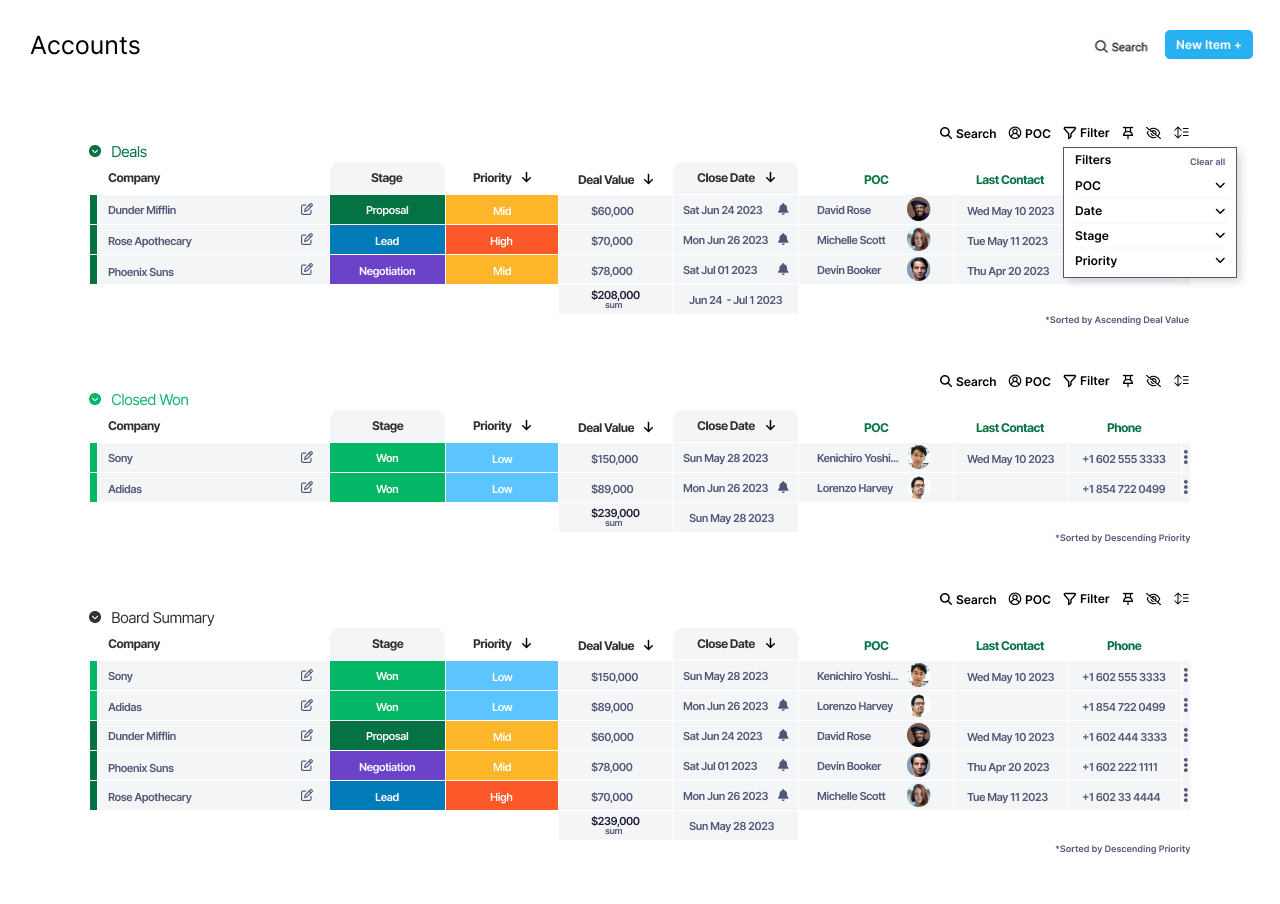
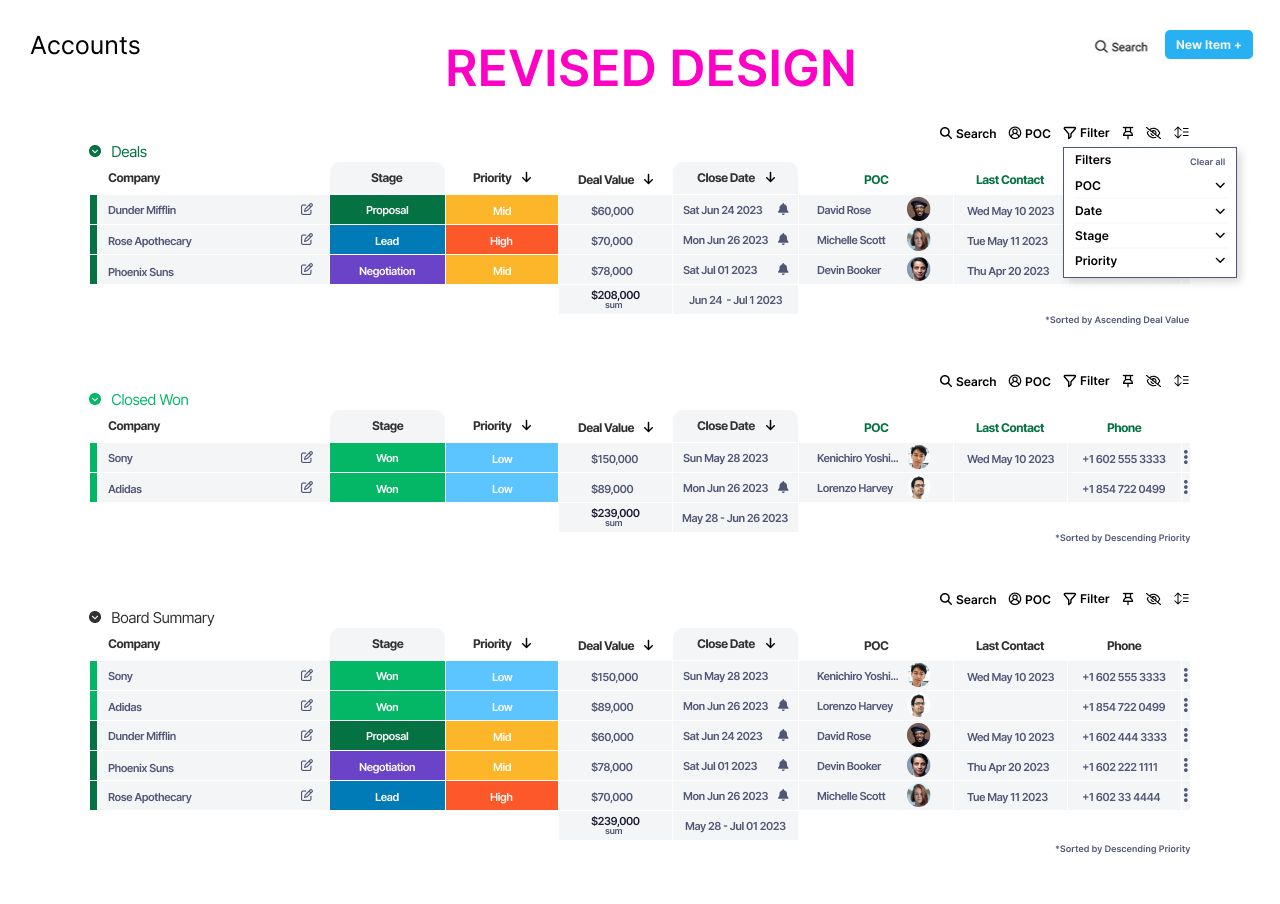
fixed border color for each company name

diff --git a/dist/style.css b/dist/style.css
@@ -1,2 +1,2 @@
-html{box-sizing:border-box;font-size:100%}*,:after,:before{box-sizing:inherit}body{margin:0;padding:0;font-family:Segoe UI,Inter,sans-serif}section{padding:2em 2em 0}li,ul{padding:0}td,th{margin:1em;padding:.5em}th{border-radius:10px 10px 0 0}.tab-date{display:flex;justify-content:space-between}.tab-width-sm{min-width:8rem}.tab-width-med{min-width:13rem}.icon{margin-left:.75rem}.new-btn{background-color:#27b1f3;width:8rem;padding:.5rem;border-radius:4px;display:flex;justify-content:space-evenly;margin:auto}h1,h2,h3,h4,h5,h6,th{line-height:1.1;font-weight:0}h1,h2,h3,h4,h5,h6,p,th{margin-top:0;-webkit-margin-before:0;margin-block-start:0;-webkit-margin-after:0;margin-block-end:0}p{font-weight:500}.text-left{text-align:start}.text-center{text-align:center}.text-right{text-align:end}.light{font-weight:400}.regular{font-weight:600}.bold{font-weight:700}a,a:active,a:visited{text-decoration:none}:root{--dark-grey-color:#303133;--mid-grey-color:#505676;---mid-light-grey-color:#bdbec2;--light-grey-color:#f4f5f7;--white-color:#fff;--dark-green-color:#047243;--mid-blue-color:#007bb7;--purple-color:#6b43c8;--light-green-color:#04b767;--red-color:#fd582a;--light-blue-color:#5cc5ff}table{color:var(--mid-grey-color);border-color:var(--white-color)}th{color:var(--dark-grey-color)}.white-text{color:var(--white-color)}.tab-color{background-color:var(--light-grey-color)}.deals-table__content-deal-tab,.deals-table__content-title{color:var(--dark-green-color)}.closed-table__content-deal-tab,.closed-table__content-title{color:var(--light-green-color)}a,a:active,a:visited{color:var(--dark-grey-color)}a:hover{color:var(--mid-grey-color)}.nav-menu{display:flex;justify-content:space-between;align-items:center;padding:5em 5em 0}.nav-menu__item{list-style-type:none;display:flex}.nav-menu__links{align-items:center;display:flex;padding:0 2rem}.nav-menu__hamburger{position:absolute;top:3.4em;right:2em;display:none;flex-direction:column;justify-content:space-between;width:30px;height:21px}@media (max-width:414px){.nav-menu{flex-direction:column;align-items:flex-start;padding:2em 2em 0;display:block!important}.nav-menu__header{padding:3em 2em 0}.nav-menu__item{display:none}.nav-menu__hamburger{display:flex;padding:1.6em 2em 0}.nav-menu__links{text-align:center;width:100%;display:inline-block;flex-direction:column;padding:1em 2em}}.deals-table{padding:2em 5em 0;overflow:auto}.deals-table__menu{display:flex;justify-content:end;align-items:center;padding:5em 5em 0}.deals-table__menu-item{list-style-type:none;display:inline-block;cursor:pointer}.deals-table__menu-links{padding:0 1em;display:block}.deals-table__menu-item-filter{display:none;border:none!important}.deals-table__menu-item-filter-links{position:absolute;margin-top:1em;padding:0 1em;width:12em;background-color:#fff;border:1px solid;display:block}.deals-table__menu-item-filter-text{display:flex;justify-content:space-between;padding:.5em 0}.deals-table__menu-mobile{display:none}.deals-table__content{width:100%}.deals-table__content-title{padding-bottom:1em}.deals-table__content-company{width:10em;color:var(--mid-grey-color)}.deals-table__content-company-name{border-color:var(--dark-green-color);border-left-style:solid;border-width:.8em}.deals-table__content-user-image{width:40px;height:auto;clip-path:circle(30%);-webkit-clip-path:circle(40%)}.deals-table__content-total{background-color:var(--light-grey-color)}@media (max-width:414px){.deals-table__menu{display:none}.deals-table__menu-mobile{display:flex;align-items:center;padding:5em 3em 1em;justify-content:center}.deals-table__menu-item{width:50px}.deals-table__content{overflow:auto}.deals-table__content-user-image{width:100%;height:auto}}.closed-table{padding:2em 5em 0;overflow:auto}.closed-table__menu{display:flex;justify-content:end;align-items:center;padding:5em 5em 0}.closed-table__menu-item{list-style-type:none;display:inline-block}.closed-table__menu-links{padding:0 1em;display:block}.closed-table__menu-mobile{display:none;padding:2em 2em 0}.closed-table__content{width:100%}.closed-table__content-title{padding-bottom:1em}.closed-table__content-company{width:10em;color:#505676}.closed-table__content-company-name{border-color:var(--light-green-color);border-left-style:solid;border-width:.8em}.closed-table__content-priorityText{color:#fff}.closed-table__content-stageText{color:#fff;text-align:center}.closed-table__content-stageTab{background-color:#f4f5f7}.closed-table__content-user-image{width:40px;height:auto;clip-path:circle(30%);-webkit-clip-path:circle(40%)}.closed-table__content-total{background-color:var(--light-grey-color)}@media (max-width:414px){.closed-table__menu{display:none}.closed-table__menu-mobile{display:flex;align-items:center;padding:5em 3em 1em;justify-content:center}.closed-table__menu-item{width:50px}.closed-table__content{overflow:auto}.closed-table__content-user-image{width:100%;height:auto}}.board-table{padding:2em 5em 0;overflow:auto}.board-table__menu{display:flex;justify-content:end;align-items:center;padding:5em 5em 0}.board-table__menu-item{list-style-type:none;display:inline-block}.board-table__menu-links{padding:0 1em;display:block}.board-table__menu-mobile{display:none;padding:2em 2em 0}.board-table__content{width:100%}.board-table__content-title{padding-bottom:1em}.board-table__content-company{width:10em;color:#505676}.board-table__content-priorityText,.board-table__content-stageText{color:#fff}.board-table__content-stageTab{background-color:#f4f5f7}.board-table__content-user-image{width:40px;height:auto;clip-path:circle(30%);-webkit-clip-path:circle(40%)}@media (max-width:414px){.board-table__menu{display:none}.board-table__menu-mobile{display:flex;align-items:center;padding:5em 3em 1em;justify-content:center}.board-table__menu-item{width:50px}.board-table__content{overflow:auto}.board-table__content-user-image{width:100%;height:auto}}#dealsOutput,#multipleDataOutput,#overallDataOutput{background:var(--light-grey-color)}.footer{padding:3em;text-align:center}
+html{box-sizing:border-box;font-size:100%}*,:after,:before{box-sizing:inherit}body{margin:0;padding:0;font-family:Segoe UI,Inter,sans-serif}section{padding:2em 2em 0}li,ul{padding:0}td,th{margin:1em;padding:.5em}th{border-radius:10px 10px 0 0}.tab-date{display:flex;justify-content:space-between}.tab-width-sm{min-width:8rem}.tab-width-med{min-width:13rem}.icon{margin-left:.75rem}.new-btn{background-color:#27b1f3;width:8rem;padding:.5rem;border-radius:4px;display:flex;justify-content:space-evenly;margin:auto}h1,h2,h3,h4,h5,h6,th{line-height:1.1;font-weight:0}h1,h2,h3,h4,h5,h6,p,th{margin-top:0;-webkit-margin-before:0;margin-block-start:0;-webkit-margin-after:0;margin-block-end:0}p{font-weight:500}.text-left{text-align:start}.text-center{text-align:center}.text-right{text-align:end}.light{font-weight:400}.regular{font-weight:600}.bold{font-weight:700}a,a:active,a:visited{text-decoration:none}:root{--dark-grey-color:#303133;--mid-grey-color:#505676;---mid-light-grey-color:#bdbec2;--light-grey-color:#f4f5f7;--white-color:#fff;--dark-green-color:#047243;--mid-blue-color:#007bb7;--purple-color:#6b43c8;--light-green-color:#04b767;--red-color:#fd582a;--light-blue-color:#5cc5ff}table{color:var(--mid-grey-color);border-color:var(--white-color)}th{color:var(--dark-grey-color)}.white-text{color:var(--white-color)}.tab-color{background-color:var(--light-grey-color)}.deals-table__content-deal-tab,.deals-table__content-title{color:var(--dark-green-color)}.closed-table__content-deal-tab,.closed-table__content-title{color:var(--light-green-color)}a,a:active,a:visited{color:var(--dark-grey-color)}a:hover{color:var(--mid-grey-color)}.nav-menu{display:flex;justify-content:space-between;align-items:center;padding:5em 5em 0}.nav-menu__item{list-style-type:none;display:flex}.nav-menu__links{align-items:center;display:flex;padding:0 2rem}.nav-menu__hamburger{position:absolute;top:3.4em;right:2em;display:none;flex-direction:column;justify-content:space-between;width:30px;height:21px}@media (max-width:414px){.nav-menu{flex-direction:column;align-items:flex-start;padding:2em 2em 0;display:block!important}.nav-menu__header{padding:3em 2em 0}.nav-menu__item{display:none}.nav-menu__hamburger{display:flex;padding:1.6em 2em 0}.nav-menu__links{text-align:center;width:100%;display:inline-block;flex-direction:column;padding:1em 2em}}.deals-table{padding:2em 5em 0;overflow:auto}.deals-table__menu{display:flex;justify-content:end;align-items:center;padding:5em 5em 0}.deals-table__menu-item{list-style-type:none;display:inline-block;cursor:pointer}.deals-table__menu-links{padding:0 1em;display:block}.deals-table__menu-item-filter{display:none;border:none!important}.deals-table__menu-item-filter-links{position:absolute;margin-top:1em;padding:0 1em;width:12em;background-color:#fff;border:1px solid;display:block}.deals-table__menu-item-filter-text{display:flex;justify-content:space-between;padding:.5em 0}.deals-table__menu-mobile{display:none}.deals-table__content{width:100%}.deals-table__content-title{padding-bottom:1em}.deals-table__content-company{width:10em;color:var(--mid-grey-color)}.deals-table__content-company-name{border-left-style:solid;border-width:.8em}.deals-table__content-user-image{width:40px;height:auto;clip-path:circle(30%);-webkit-clip-path:circle(40%)}.deals-table__content-total{background-color:var(--light-grey-color)}@media (max-width:414px){.deals-table__menu{display:none}.deals-table__menu-mobile{display:flex;align-items:center;padding:5em 3em 1em;justify-content:center}.deals-table__menu-item{width:50px}.deals-table__content{overflow:auto}.deals-table__content-user-image{width:100%;height:auto}}.closed-table{padding:2em 5em 0;overflow:auto}.closed-table__menu{display:flex;justify-content:end;align-items:center;padding:5em 5em 0}.closed-table__menu-item{list-style-type:none;display:inline-block}.closed-table__menu-links{padding:0 1em;display:block}.closed-table__menu-mobile{display:none;padding:2em 2em 0}.closed-table__content{width:100%}.closed-table__content-title{padding-bottom:1em}.closed-table__content-company{width:10em;color:#505676}.closed-table__content-company-name{border-left-style:solid;border-width:.8em}.closed-table__content-priorityText{color:#fff}.closed-table__content-stageText{color:#fff;text-align:center}.closed-table__content-stageTab{background-color:#f4f5f7}.closed-table__content-user-image{width:40px;height:auto;clip-path:circle(30%);-webkit-clip-path:circle(40%)}.closed-table__content-total{background-color:var(--light-grey-color)}@media (max-width:414px){.closed-table__menu{display:none}.closed-table__menu-mobile{display:flex;align-items:center;padding:5em 3em 1em;justify-content:center}.closed-table__menu-item{width:50px}.closed-table__content{overflow:auto}.closed-table__content-user-image{width:100%;height:auto}}.board-table{padding:2em 5em 0;overflow:auto}.board-table__menu{display:flex;justify-content:end;align-items:center;padding:5em 5em 0}.board-table__menu-item{list-style-type:none;display:inline-block}.board-table__menu-links{padding:0 1em;display:block}.board-table__menu-mobile{display:none;padding:2em 2em 0}.board-table__content{width:100%}.board-table__content-title{padding-bottom:1em}.board-table__content-company{width:10em;color:#505676}.board-table__content-priorityText,.board-table__content-stageText{color:#fff}.board-table__content-stageTab{background-color:#f4f5f7}.board-table__content-user-image{width:40px;height:auto;clip-path:circle(30%);-webkit-clip-path:circle(40%)}@media (max-width:414px){.board-table__menu{display:none}.board-table__menu-mobile{display:flex;align-items:center;padding:5em 3em 1em;justify-content:center}.board-table__menu-item{width:50px}.board-table__content{overflow:auto}.board-table__content-user-image{width:100%;height:auto}}#dealsOutput,#multipleDataOutput,#overallDataOutput{background:var(--light-grey-color)}.footer{padding:3em;text-align:center}
 /*# sourceMappingURL=style.css.map */

diff --git a/dist/all.js b/dist/all.js
@@ -1,1 +1,1 @@
-function hamburgerBtn(){document.querySelector(".nav-menu__item").classList.toggle("nav-menu__links")}function filterBtn(){document.querySelector(".deals-table__menu-item-filter").classList.toggle("deals-table__menu-item-filter-links")}console.log("Hey"),fetch("app/multipleData.json").then((t=>{if(!t.ok)throw new Error("API request failed. Check the json file.");return t.json()})).then((t=>{let e=document.getElementById("dealsOutput"),l="";for(let e of t.deals){const t=parseFloat(e.dealValue).toLocaleString("en-US",{style:"currency",currency:"USD"}),o=new Date(e.closeDate).toDateString(),n=new Date(e.lastContact).toDateString();l+=`\n            <tr>\n            <td class="text-left deals-table__content-company-name bold">${e.company}</td>\n            <td><i class="fa-solid fa-pen-to-square"></i></td>\n            <td style="background-color: ${e.stageColor};"><p class="tab-width-sm text-center bold white-text">${e.stageText}</p></td>\n            <td style="background-color: ${e.priorityColor};"><p class="white-text text-center bold">${e.priorityText}</p></td>\n            <td class="text-center bold">${t}</td>\n            <td class="tab-width-med tab-date text-left bold">${o} <i class="fa-solid fa-bell icon text-right"></i></td>\n            <td class="tab-width-med bold">${e.poc}</td>\n            <td><img src="${e.image}" alt="user-image"\n            class="deals-table__content-user-image"></td>\n            <td class="bold">${n}</td>\n            <td class="bold">${e.phone}</td>\n            <td><i class="fa-solid fa-ellipsis-vertical"></i></td>\n        </tr> `}e.innerHTML=l;const o=e.querySelectorAll("tbody td:nth-child(5)");console.log(o);let n=0;o.forEach((function(t){const e=t.textContent,l=parseFloat(e.replace("$",""));console.log(1e3*l),n+=1e3*l}));const a=document.getElementById("totalSum"),c=n.toLocaleString("en-US",{style:"currency",currency:"USD"});a.textContent=c})).catch((t=>{console.error("Catch",t)})),fetch("app/multipleData.json").then((t=>{if(!t.ok)throw new Error("API request failed. Check the json file.");return t.json()})).then((t=>{let e=document.getElementById("multipleDataOutput"),l="";for(let e of t.closed){const t=parseFloat(e.dealValue).toLocaleString("en-US",{style:"currency",currency:"USD"}),o=new Date(e.closeDate).toDateString(),n=new Date(e.lastContact).toDateString();l+=`\n            <tr>\n            <td class="text-left closed-table__content-company-name bold">${e.company}</td>\n            <td><i class="fa-solid fa-pen-to-square"></i></td>\n            <td style="background-color: ${e.stageColor};"><p class="tab-width-sm text-center bold white-text">${e.stageText}</p></td>\n            <td style="background-color: ${e.priorityColor};"><p class="white-text text-center bold">${e.priorityText}</p></td>\n            <td class="text-center bold">${t}</td>\n            <td class="tab-width-med tab-date text-left bold">${o} <i class="fa-solid fa-bell icon text-right"></i></td>\n            <td class="tab-width-med bold">${e.poc}</td>\n            <td><img src="${e.image}" alt="user-image"\n            class="deals-table__content-user-image"></td>\n            <td class="bold">${n}</td>\n            <td class="bold">${e.phone}</td>\n            <td><i class="fa-solid fa-ellipsis-vertical"></i></td>\n        </tr> `}e.innerHTML=l;const o=e.querySelectorAll("tbody td:nth-child(5)");console.log(o);let n=0;o.forEach((function(t){const e=t.textContent,l=parseFloat(e.replace("$",""));console.log(1e3*l),n+=1e3*l}));const a=document.getElementById("totalClosedSum"),c=n.toLocaleString("en-US",{style:"currency",currency:"USD"});a.textContent=c})).catch((t=>{console.error("Catch",t)})),fetch("app/multipleData.json").then((t=>{if(!t.ok)throw new Error("API request failed. Check the json file.");return t.json()})).then((t=>{let e=document.getElementById("overallDataOutput"),l="";const o=t.deals;console.log(o);const n=t.closed;console.log(n);const a=o.concat(n);console.log(a);for(let t of a){const e=parseFloat(t.dealValue).toLocaleString("en-US",{style:"currency",currency:"USD"}),o=new Date(t.closeDate).toDateString(),n=new Date(t.lastContact).toDateString();l+=`\n            <tr>\n            <td class="text-left closed-table__content-company-name bold">${t.company}</td>\n            <td><i class="fa-solid fa-pen-to-square"></i></td>\n            <td style="background-color: ${t.stageColor};"><p class="tab-width-sm text-center bold white-text">${t.stageText}</p></td>\n            <td style="background-color: ${t.priorityColor};"><p class="white-text text-center bold">${t.priorityText}</p></td>\n            <td class="text-center bold">${e}</td>\n            <td class="tab-width-med tab-date text-left bold">${o} <i class="fa-solid fa-bell icon text-right"></i></td>\n            <td class="tab-width-med bold">${t.poc}</td>\n            <td><img src="${t.image}" alt="user-image"\n            class="deals-table__content-user-image"></td>\n            <td class="bold">${n}</td>\n            <td class="bold">${t.phone}</td>\n            <td><i class="fa-solid fa-ellipsis-vertical"></i></td>\n        </tr> `}e.innerHTML=l;const c=e.querySelectorAll("tbody td:nth-child(5)");let s=0;c.forEach((function(t){const e=t.textContent,l=parseFloat(e.replace("$",""));console.log(1e3*l),s+=1e3*l}));const d=document.getElementById("totalBoardSum"),r=s.toLocaleString("en-US",{style:"currency",currency:"USD"});d.textContent=r})).catch((t=>{console.error("Catch",t)}));
+function hamburgerBtn(){document.querySelector(".nav-menu__item").classList.toggle("nav-menu__links")}function filterBtn(){document.querySelector(".deals-table__menu-item-filter").classList.toggle("deals-table__menu-item-filter-links")}console.log("Hey"),fetch("app/multipleData.json").then((t=>{if(!t.ok)throw new Error("API request failed. Check the json file.");return t.json()})).then((t=>{let e=document.getElementById("dealsOutput"),o="";for(let e of t.deals){const t=parseFloat(e.dealValue).toLocaleString("en-US",{style:"currency",currency:"USD"}),l=new Date(e.closeDate).toDateString(),n=new Date(e.lastContact).toDateString();o+=`\n            <tr>\n            <td style="border-color:${e.borderColor}" class="text-left deals-table__content-company-name bold">${e.company}</td>\n            <td><i class="fa-solid fa-pen-to-square"></i></td>\n            <td style="background-color: ${e.stageColor};"><p class="tab-width-sm text-center bold white-text">${e.stageText}</p></td>\n            <td style="background-color: ${e.priorityColor};"><p class="white-text text-center bold">${e.priorityText}</p></td>\n            <td class="text-center bold">${t}</td>\n            <td class="tab-width-med tab-date text-left bold">${l} <i class="fa-solid fa-bell icon text-right"></i></td>\n            <td class="tab-width-med bold">${e.poc}</td>\n            <td><img src="${e.image}" alt="user-image"\n            class="deals-table__content-user-image"></td>\n            <td class="bold">${n}</td>\n            <td class="bold">${e.phone}</td>\n            <td><i class="fa-solid fa-ellipsis-vertical"></i></td>\n        </tr> `}e.innerHTML=o;const l=e.querySelectorAll("tbody td:nth-child(5)");console.log(l);let n=0;l.forEach((function(t){const e=t.textContent,o=parseFloat(e.replace("$",""));console.log(1e3*o),n+=1e3*o}));const a=document.getElementById("totalSum"),c=n.toLocaleString("en-US",{style:"currency",currency:"USD"});a.textContent=c})).catch((t=>{console.error("Catch",t)})),fetch("app/multipleData.json").then((t=>{if(!t.ok)throw new Error("API request failed. Check the json file.");return t.json()})).then((t=>{let e=document.getElementById("multipleDataOutput"),o="";for(let e of t.closed){const t=parseFloat(e.dealValue).toLocaleString("en-US",{style:"currency",currency:"USD"}),l=new Date(e.closeDate).toDateString(),n=new Date(e.lastContact).toDateString();o+=`\n            <tr>\n            <td style="border-color:${e.borderColor}" class="text-left closed-table__content-company-name bold">${e.company}</td>\n            <td><i class="fa-solid fa-pen-to-square"></i></td>\n            <td style="background-color: ${e.stageColor};"><p class="tab-width-sm text-center bold white-text">${e.stageText}</p></td>\n            <td style="background-color: ${e.priorityColor};"><p class="white-text text-center bold">${e.priorityText}</p></td>\n            <td class="text-center bold">${t}</td>\n            <td class="tab-width-med tab-date text-left bold">${l} <i class="fa-solid fa-bell icon text-right"></i></td>\n            <td class="tab-width-med bold">${e.poc}</td>\n            <td><img src="${e.image}" alt="user-image"\n            class="deals-table__content-user-image"></td>\n            <td class="bold" id="contactDate">${n}</td>\n            <td class="bold">${e.phone}</td>\n            <td><i class="fa-solid fa-ellipsis-vertical"></i></td>\n        </tr> `}e.innerHTML=o;const l=e.querySelectorAll("tbody td:nth-child(5)");console.log(l);let n=0;l.forEach((function(t){const e=t.textContent,o=parseFloat(e.replace("$",""));console.log(1e3*o),n+=1e3*o}));const a=document.getElementById("totalClosedSum"),c=n.toLocaleString("en-US",{style:"currency",currency:"USD"});a.textContent=c})).catch((t=>{console.error("Catch",t)})),fetch("app/multipleData.json").then((t=>{if(!t.ok)throw new Error("API request failed. Check the json file.");return t.json()})).then((t=>{let e=document.getElementById("overallDataOutput"),o="";const l=t.deals;console.log(l);const n=t.closed;console.log(n);const a=l.concat(n);console.log(a);for(let t of a){const e=parseFloat(t.dealValue).toLocaleString("en-US",{style:"currency",currency:"USD"}),l=new Date(t.closeDate).toDateString(),n=new Date(t.lastContact).toDateString();o+=`\n            <tr>\n            <td style="border-color:${t.borderColor}" class="text-left closed-table__content-company-name bold">${t.company}</td>\n            <td><i class="fa-solid fa-pen-to-square"></i></td>\n            <td style="background-color: ${t.stageColor};"><p class="tab-width-sm text-center bold white-text">${t.stageText}</p></td>\n            <td style="background-color: ${t.priorityColor};"><p class="white-text text-center bold">${t.priorityText}</p></td>\n            <td class="text-center bold">${e}</td>\n            <td class="tab-width-med tab-date text-left bold">${l} <i class="fa-solid fa-bell icon text-right"></i></td>\n            <td class="tab-width-med bold">${t.poc}</td>\n            <td><img src="${t.image}" alt="user-image"\n            class="deals-table__content-user-image"></td>\n            <td class="bold">${n}</td>\n            <td class="bold">${t.phone}</td>\n            <td><i class="fa-solid fa-ellipsis-vertical"></i></td>\n        </tr> `}e.innerHTML=o;const c=e.querySelectorAll("tbody td:nth-child(5)");let s=0;c.forEach((function(t){const e=t.textContent,o=parseFloat(e.replace("$",""));console.log(1e3*o),s+=1e3*o}));const r=document.getElementById("totalBoardSum"),d=s.toLocaleString("en-US",{style:"currency",currency:"USD"});r.textContent=d})).catch((t=>{console.error("Catch",t)}));

diff --git a/app/js/script.js b/app/js/script.js
@@ -49,7 +49,7 @@ fetch('app/multipleData.json')
             //Append the properties in the object into the created empty string
             key += `
             <tr>
-            <td class="text-left deals-table__content-company-name bold">${property.company}</td>
+            <td style="border-color:${property.borderColor}" class="text-left deals-table__content-company-name bold">${property.company}</td>
             <td><i class="fa-solid fa-pen-to-square"></i></td>
             <td style="background-color: ${property.stageColor};"><p class="tab-width-sm text-center bold white-text">${property.stageText}</p></td>
             <td style="background-color: ${property.priorityColor};"><p class="white-text text-center bold">${property.priorityText}</p></td>
@@ -143,7 +143,7 @@ fetch('app/multipleData.json')
             //Append the properties in the object into the created empty string
             dataValue += `
             <tr>
-            <td class="text-left closed-table__content-company-name bold">${dataProperty.company}</td>
+            <td style="border-color:${dataProperty.borderColor}" class="text-left closed-table__content-company-name bold">${dataProperty.company}</td>
             <td><i class="fa-solid fa-pen-to-square"></i></td>
             <td style="background-color: ${dataProperty.stageColor};"><p class="tab-width-sm text-center bold white-text">${dataProperty.stageText}</p></td>
             <td style="background-color: ${dataProperty.priorityColor};"><p class="white-text text-center bold">${dataProperty.priorityText}</p></td>
@@ -152,7 +152,7 @@ fetch('app/multipleData.json')
             <td class="tab-width-med bold">${dataProperty.poc}</td>
             <td><img src="${dataProperty.image}" alt="user-image"
             class="deals-table__content-user-image"></td>
-            <td class="bold">${newContactDate}</td>
+            <td class="bold" id="contactDate">${newContactDate}</td>
             <td class="bold">${dataProperty.phone}</td>
             <td><i class="fa-solid fa-ellipsis-vertical"></i></td>
         </tr> `;
@@ -227,8 +227,6 @@ fetch('app/multipleData.json')
         //Loop the 'multipleData' using 'for...of...'
         for (let overallData of boardArray) {
 
-
-
             //Convert to Closed Won Value to currency
             const number = parseFloat(overallData.dealValue);
             const formattedCurrency = number.toLocaleString("en-US", {
@@ -247,7 +245,7 @@ fetch('app/multipleData.json')
             //Append the properties in the object into the created empty string
             totalDataValue += `
             <tr>
-            <td class="text-left closed-table__content-company-name bold">${overallData.company}</td>
+            <td style="border-color:${overallData.borderColor}" class="text-left closed-table__content-company-name bold">${overallData.company}</td>
             <td><i class="fa-solid fa-pen-to-square"></i></td>
             <td style="background-color: ${overallData.stageColor};"><p class="tab-width-sm text-center bold white-text">${overallData.stageText}</p></td>
             <td style="background-color: ${overallData.priorityColor};"><p class="white-text text-center bold">${overallData.priorityText}</p></td>

diff --git a/index.html b/index.html
@@ -455,7 +455,9 @@
                         <h4 id="totalBoardSum"></h4>
                         <p>sum</p>
                     </td>
-                    <td></td>
+                    <td>
+                        <h4 id="dateRange"></h4>
+                    </td>
                     <td></td>
                     <td></td>
                     <td></td>

diff --git a/app/scss/style.scss b/app/scss/style.scss
@@ -120,7 +120,6 @@
   }
 
   &__content-company-name {
-    border-color: var(--dark-green-color);
     border-left-style: solid;
     border-width: 0.8em;
   }
@@ -205,7 +204,6 @@
   }
 
   &__content-company-name {
-    border-color: var(--light-green-color);
     border-left-style: solid;
     border-width: 0.8em;
   }
